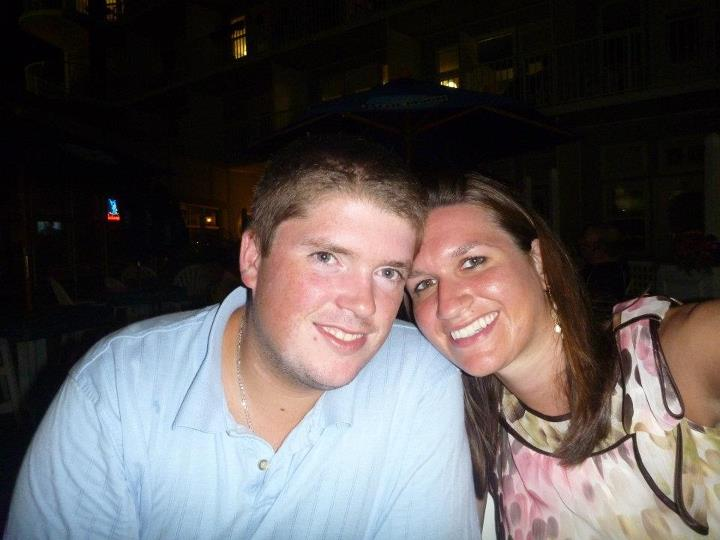
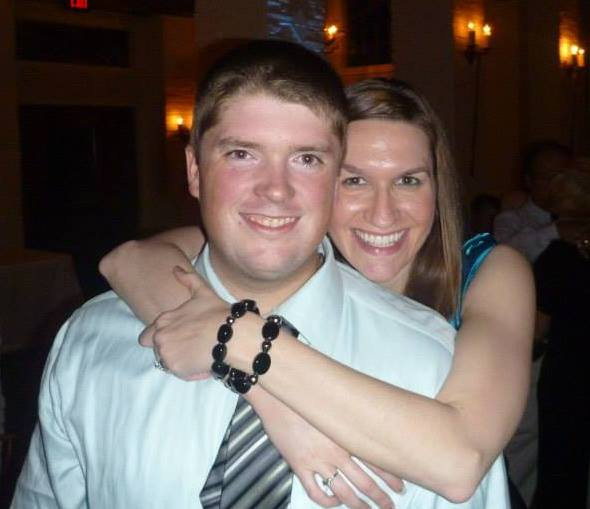
updated pic to new fav

diff --git a/index.html b/index.html
@@ -25,7 +25,7 @@
 		<div class="borderTop">
 			<div class="span-6 colborder info prepend-1">
 				<p class="prepend-top">
-					<img id="petepic" src="images/justin.jpg" alt="Justin Nash" border="0" width="200">
+					<img id="justinpic" src="images/justin.jpg" alt="Justin Nash" border="0" width="200">
 				</p>
 			</div><!-- end div .span-6 -->		
 	  
